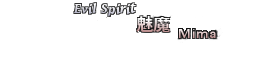
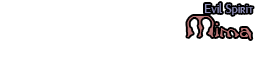
IN Modernization
And also clearing out stuff

Changed region(s): [[0.2812, 0.0, 1.0, 0.6562]]

diff --git a/mima/files.js b/mima/files.js
@@ -42,7 +42,7 @@
 	"th08/data/face/st04b/face_st04b_dp.png": 2488619848,
 	"th08/data/face/st04b/face_st04b_ls.png": 3177116257,
 	"th08/data/face/st04b/face_st04b_n2.png": 3504467335,
-	"th08/data/face/st04b/face_st04b_name.png": 165319762,
+	"th08/data/face/st04b/face_st04b_name.png": 3877248045,
 	"th08/data/face/st04b/face_st04b_no.png": 2339552450,
 	"th08/data/face/st04b/face_st04b_pr.png": 3219935338,
 	"th08/data/face/st04b/face_st04b_sw.png": 435100465,
@@ -70,9 +70,9 @@
 	"th08/data/player00/player01.png": 2283120535,
 	"th08/data/player00/player03.png": 3986238006,
 	"th08/data/stgenm/stg4benm.png": 3496821779,
-	"th08/data/text/stg4btxt.png": 4171704174,
-	"th08/data/title/replay00.png": 788208300,
-	"th08/data/title/select01.png": 1420646140,
+	"th08/data/text/stg4btxt.png": 1667031996,
+	"th08/data/title/replay00.png": null,
+	"th08/data/title/select01.png": null,
 	"th08/data/title/sl_pl00a.png": 2195413325,
 	"th08/data/title/sl_pl00h.png": 1211483233,
 	"th08/data/title/sl_pl01a.png": 1602851757,
@@ -93,9 +93,9 @@
 	"th08/data/title/sl_pltxt7.png": 3687359490,
 	"th08/data/title/sl_pltxt8.png": 2212946101,
 	"th08/data/title/sl_pltxt9.png": 338926899,
-	"th08/data/title/sl_text.png": 1704478695,
-	"th08/data/title/title01.png": 695150599,
-	"th08/data/title/title02.png": 4260694601,
+	"th08/data/title/sl_text.png": null,
+	"th08/data/title/title01.png": null,
+	"th08/data/title/title02.png": null,
 	"th08/msg1b.dat": 3008841704,
 	"th08/msg1b.dat.jdiff": 3631292641,
 	"th08/msg1d.dat": 3778973643,
